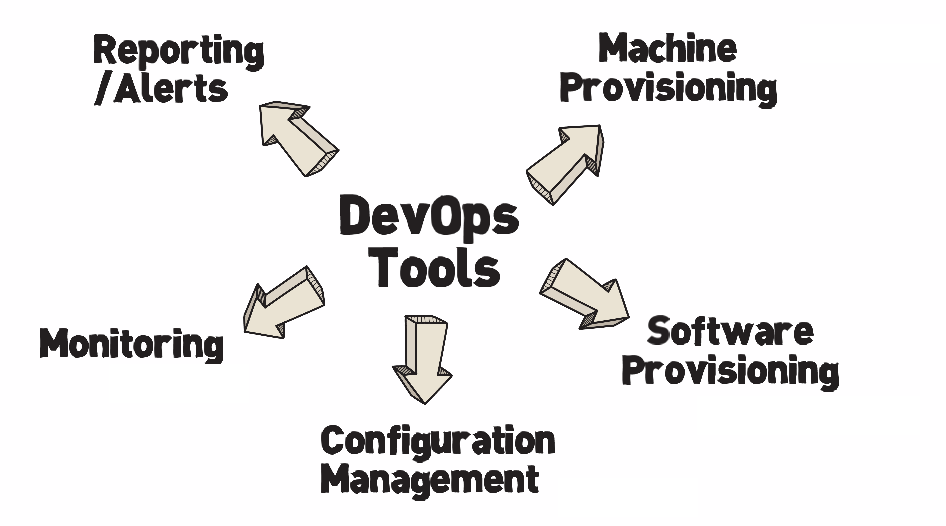
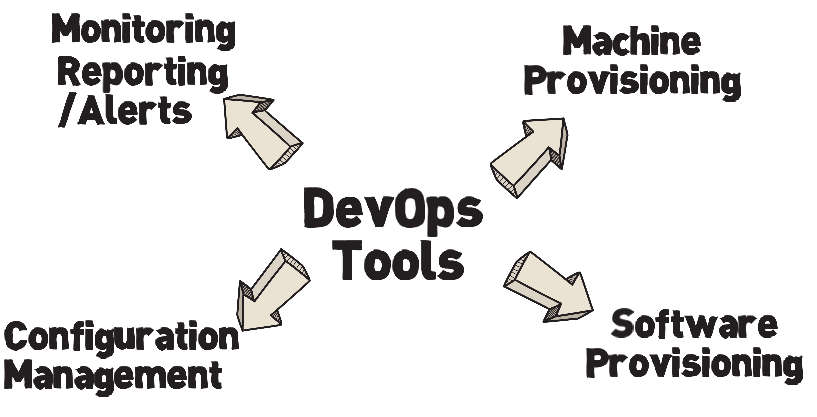
Combined Monitoring and Reporting into one

diff --git a/index.html b/index.html
@@ -411,6 +411,28 @@
     </section>
     <section id="19" class="step slide" data-x="33000" data-y="-1500" data-rotate-y="20">
         <header class="fixed-top">
+            <h1>Tools</h1>
+        </header>
+        <section class="center-top">
+            <figure class="banner3">
+                <img src="images/tools.png"></img>
+                <figureCaption></figureCaption>
+            </figure>
+            <br>
+            <p>Assumption -</p>
+            <p>Continuous Integration Tools are already in place</p>
+        </section>
+        <footer class="fixed-bottom">
+            <hr/>
+            <figure class="logo">
+                <img src="images/synerzip-logo.png"></img>
+                <figureCaption></figureCaption>
+            </figure>
+        </footer>
+
+    </section>
+    <section id="20" class="step slide" data-x="35000" data-y="-1500" data-rotate-y="40">
+        <header class="fixed-top">
             <h1>Software Provisioning</h1>
         </header>
         <section class="center-top">
@@ -429,7 +451,7 @@
         </footer>
 
     </section>
-    <section id="20" class="step slide" data-x="35000" data-y="-1500" data-rotate-y="40">
+    <section id="21" class="step slide" data-x="37000" data-y="-1500" data-rotate-y="60">
         <header class="fixed-top">
             <h1>Puppet</h1>
         </header>
@@ -449,7 +471,7 @@
         </footer>
 
     </section>
-    <section id="21" class="step slide" data-x="37000" data-y="-1500" data-rotate-y="60">
+    <section id="22" class="step slide" data-x="39000" data-y="-1500" data-rotate-y="80">
         <header class="fixed-top">
             <h1>Puppet Example</h1>
         </header>
@@ -469,7 +491,7 @@
         </footer>
 
     </section>
-    <section id="22" class="step slide" data-x="39000" data-y="-1500" data-rotate-y="80">
+    <section id="23" class="step slide" data-x="41000" data-y="-1500" data-rotate-y="100">
         <header class="fixed-top">
             <h1>Other Tools</h1>
         </header>
@@ -493,7 +515,29 @@
         </footer>
 
     </section>
-    <section id="23" class="step slide" data-x="41000" data-y="-1500" data-rotate-y="100">
+    <section id="24" class="step slide" data-x="43000" data-y="-1500" data-rotate-y="120">
+        <header class="fixed-top">
+            <h1>Tools</h1>
+        </header>
+        <section class="center-top">
+            <figure class="banner3">
+                <img src="images/tools.png"></img>
+                <figureCaption></figureCaption>
+            </figure>
+            <br>
+            <p>Assumption -</p>
+            <p>Continuous Integration Tools are already in place</p>
+        </section>
+        <footer class="fixed-bottom">
+            <hr/>
+            <figure class="logo">
+                <img src="images/synerzip-logo.png"></img>
+                <figureCaption></figureCaption>
+            </figure>
+        </footer>
+
+    </section>
+    <section id="25" class="step slide" data-x="45000" data-y="-1500" data-rotate-y="140">
         <header class="fixed-top">
             <h1>Configuration Management</h1>
         </header>
@@ -513,7 +557,7 @@
         </footer>
 
     </section>
-    <section id="24" class="step slide" data-x="43000" data-y="-1500" data-rotate-y="120">
+    <section id="26" class="step slide" data-x="47000" data-y="-1500" data-rotate-y="160">
         <header class="fixed-top">
             <h1>Demo Time</h1>
         </header>
@@ -533,7 +577,29 @@
         </footer>
 
     </section>
-    <section id="25" class="step slide" data-x="45000" data-y="-1500" data-rotate-y="120">
+    <section id="27" class="step slide" data-x="49000" data-y="-1500" data-rotate-y="180">
+        <header class="fixed-top">
+            <h1>Tools</h1>
+        </header>
+        <section class="center-top">
+            <figure class="banner3">
+                <img src="images/tools.png"></img>
+                <figureCaption></figureCaption>
+            </figure>
+            <br>
+            <p>Assumption -</p>
+            <p>Continuous Integration Tools are already in place</p>
+        </section>
+        <footer class="fixed-bottom">
+            <hr/>
+            <figure class="logo">
+                <img src="images/synerzip-logo.png"></img>
+                <figureCaption></figureCaption>
+            </figure>
+        </footer>
+
+    </section>
+    <section id="28" class="step slide" data-x="51000" data-y="-1500" data-rotate-y="200">
         <header class="fixed-top">
             <h1>Monitoring</h1>
         </header>
@@ -553,7 +619,7 @@
         </footer>
 
     </section>
-    <section id="26" class="step slide" data-x="47000" data-y="-1500" data-rotate-y="140">
+    <section id="29" class="step slide" data-x="53000" data-y="-1500" data-rotate-y="220">
         <header class="fixed-top">
             <h1>Nagios</h1>
         </header>
@@ -573,47 +639,8 @@
         </footer>
 
     </section>
-    <section id="27" class="step slide" data-x="49000" data-y="-1500" data-rotate-y="160">
-        <header class="fixed-top">
-            <h1>Other Tools</h1>
-        </header>
-        <section class="center-top">
-            <figure class="banner3">
-                <img src=""></img>
-                <figureCaption></figureCaption>
-            </figure>
 
-        </section>
-        <footer class="fixed-bottom">
-            <hr/>
-            <figure class="logo">
-                <img src="images/synerzip-logo.png"></img>
-                <figureCaption></figureCaption>
-            </figure>
-        </footer>
-
-    </section>
-    <section id="28" class="step slide" data-x="51000" data-y="-1500" data-rotate-y="180">
-        <header class="fixed-top">
-            <h1>Reporting/Alert/Dashboard</h1>
-        </header>
-        <section class="center-top">
-            <figure class="banner3">
-                <img src=""></img>
-                <figureCaption></figureCaption>
-            </figure>
-
-        </section>
-        <footer class="fixed-bottom">
-            <hr/>
-            <figure class="logo">
-                <img src="images/synerzip-logo.png"></img>
-                <figureCaption></figureCaption>
-            </figure>
-        </footer>
-
-    </section>
-    <section id="29" class="step slide" data-x="53000" data-y="-1500" data-rotate-y="200">
+    <section id="30" class="step slide" data-x="55000" data-y="-1500" data-rotate-y="240">
         <header class="fixed-top">
             <h1>Pager Duty</h1>
         </header>
@@ -633,17 +660,16 @@
         </footer>
 
     </section>
-    <section id="30" class="step slide" data-x="55000" data-y="-1500" data-rotate-y="220">
+    <section id="31" class="step slide" data-x="57000" data-y="-1500" data-rotate-y="260">
         <header class="fixed-top">
             <h1>Other Tools</h1>
         </header>
-        <section class="center-top">
-            <figure class="banner3">
-                <img src=""></img>
-                <figureCaption></figureCaption>
-            </figure>
+        <ul>
+            <li><a href="http://www.zenoss.com/" target="_blank">ZenOss</a></li>
+            <li><a href="http://www.hyperic.com/" target="_blank">Hyperic </a></li>
+            <li><a href="http://newrelic.com/" target="_blank">NewRelic </a></li>
 
-        </section>
+        </ul>
         <footer class="fixed-bottom">
             <hr/>
             <figure class="logo">
@@ -653,7 +679,7 @@
         </footer>
 
     </section>
-    <section id="31" class="step slide" data-x="57000" data-y="-1500" data-rotate-y="240">
+    <section id="32" class="step slide" data-x="59000" data-y="-1500" data-rotate-y="280">
         <header class="fixed-top">
             <h1>Expert Tips</h1>
         </header>
@@ -673,7 +699,7 @@
         </footer>
 
     </section>
-    <section id="32" class="step slide" data-x="59000" data-y="-1500" data-rotate-y="260">
+    <section id="33" class="step slide" data-x="61000" data-y="-1500" data-rotate-y="300">
         <header class="fixed-top">
             <h1>Conclusion</h1>
         </header>
@@ -694,7 +720,7 @@
 
     </section>
 
-    <section id="33" class="step slide" data-x="63000" data-y="-1500" data-rotate-y="300">
+    <section id="34" class="step slide" data-x="63000" data-y="-1500" data-rotate-y="320">
         <header class="fixed-top">
             <h1>Questions</h1>
         </header>
@@ -720,7 +746,7 @@
         </footer>
 
     </section>
-    <section id="34" class="step slide" data-x="65000" data-y="-1500" data-rotate-y="320">
+    <section id="35" class="step slide" data-x="65000" data-y="-1500" data-rotate-y="340">
         <header class="fixed-top">
             <h1>Synerzip in a NutShell</h1>
         </header>
@@ -757,7 +783,7 @@
         </footer>
 
     </section>
-    <section id="35" class="step slide" data-x="67000" data-y="-1500" data-rotate-y="340">
+    <section id="36" class="step slide" data-x="67000" data-y="-1500" data-rotate-y="360">
         <header class="fixed-top">
             <h1>Our Clients</h1>
         </header>
@@ -777,7 +803,7 @@
         </footer>
 
     </section>
-    <section id="36" class="step slide" data-x="69000" data-y="-1500" data-rotate-y="360">
+    <section id="38" class="step slide" data-x="69000" data-y="-1500" data-rotate-y="360">
         <header class="fixed-top">
             <h1></h1>
         </header>
